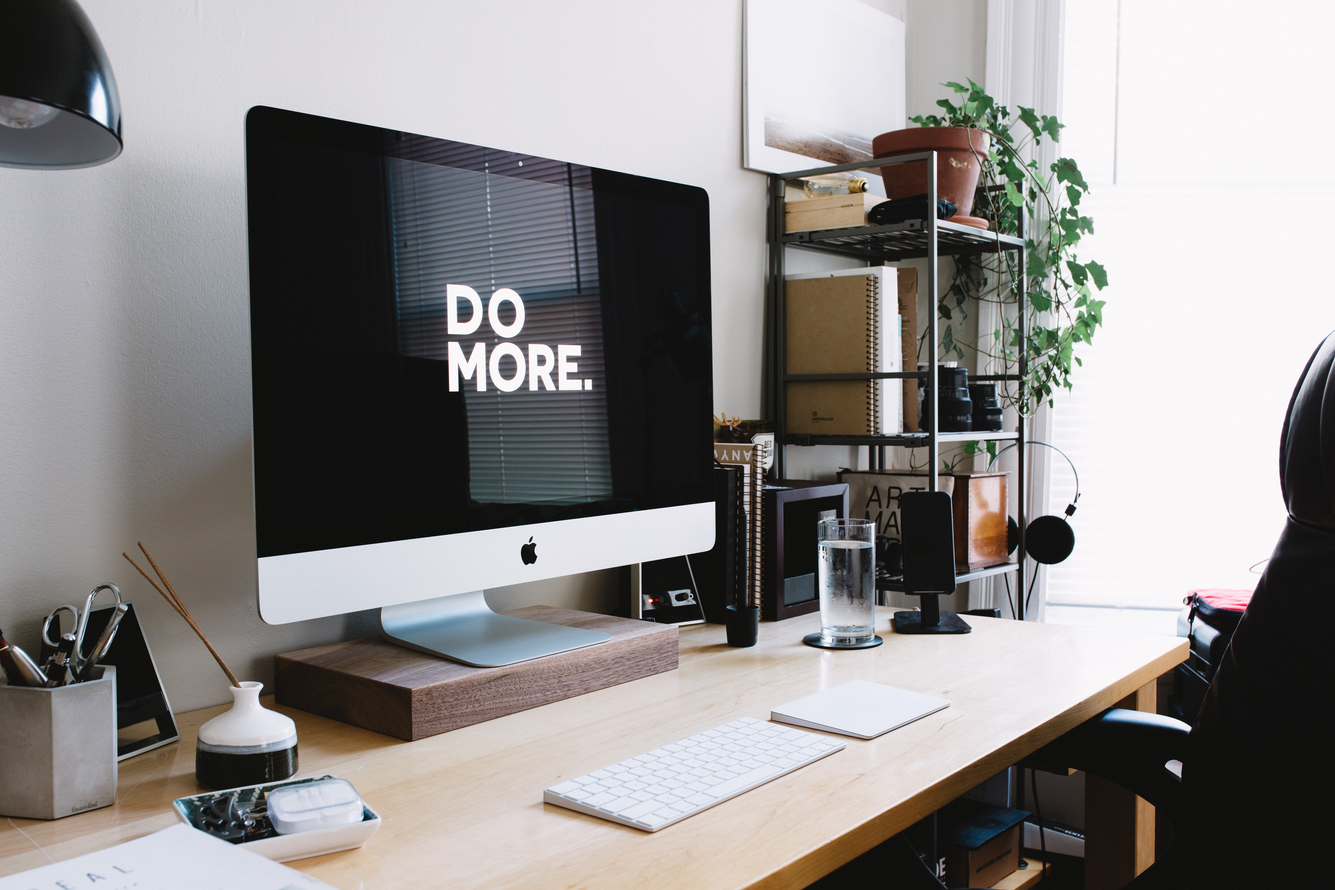
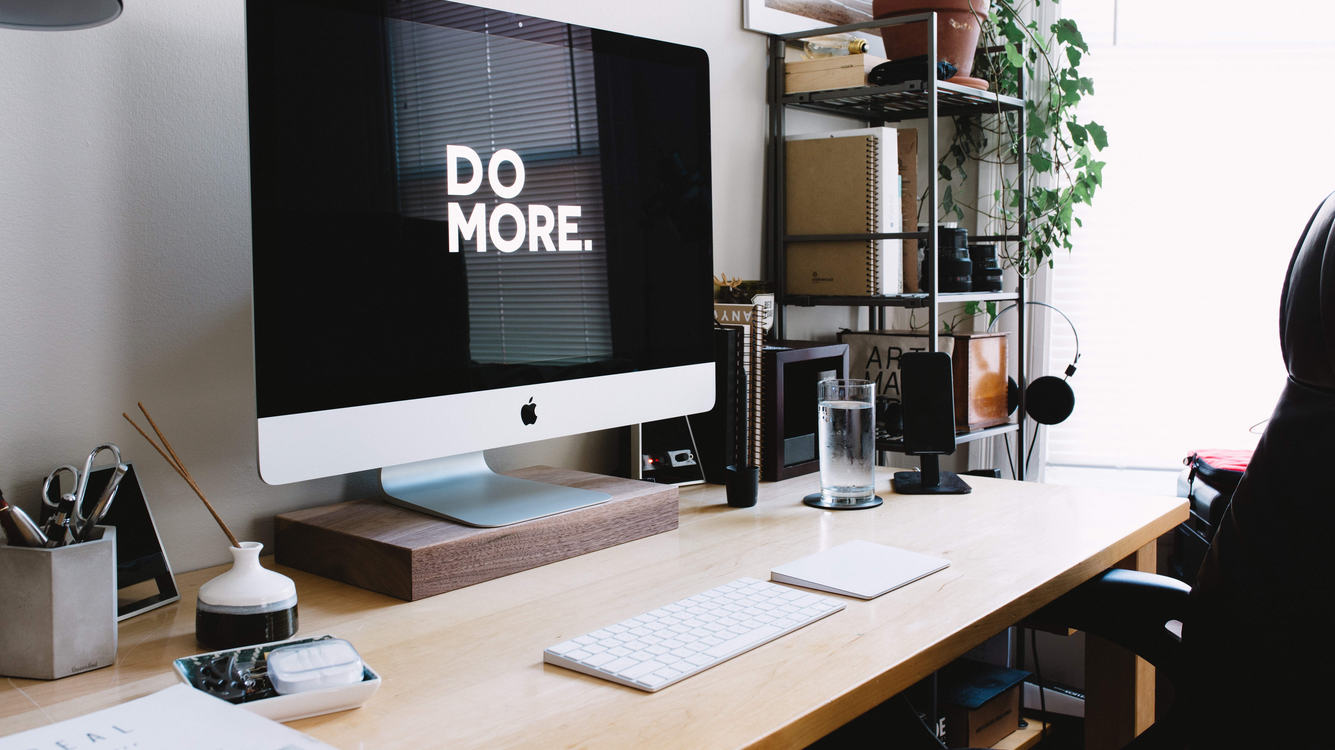
images resized and 1 project added (AI gamig bot). Small corrections in about me.

diff --git a/index.html b/index.html
@@ -41,7 +41,12 @@
             <div class="row">
                 <div class="col-lg-10 mx-auto">
                     <h2>Hello, I'm Yeshwanth Reddy</h2>
-                    <p class="lead mb-5"><span>Computer Science undergrad student at NIIT University, specialized in Data Science.Got my hands on a computer for the first time on 15th July 2016. Ever since my journey with programming has been started. Intially I started out with C (thanks to Dennis Ritchie for it's simplicity) but never restricted myself to it. Algorithms and Networking brought the coder out of me which became building blocks for my problem solving skills. &nbsp; &nbsp;<br></span></p>
+                    <p class="lead mb-5"><span>Computer Science undergrad student at NIIT University, specialized in Artificial Intelligence. 
+                        Got my hands on a computer for the first time on 15th July 2016. 
+                        Ever since my journey with programming has started. <br>
+                        Intially I started out with C (thanks to Dennis Ritchie for it's simplicity) but never restricted myself to it. 
+                        Algorithms and logics brought the coder out of me which became building blocks for my problem solving skills. <br>
+                        &nbsp; &nbsp;<br></span></p>
                     <a
                         class="btn btn-dark btn-xl js-scroll-trigger" role="button" href="#hobbies">What I Do</a>
                 </div>
@@ -82,15 +87,6 @@
             </div>
             <div class="row no-gutters">
                 <div class="col-lg-6">
-                    <a href="" class="portfolio-item">
-                        <div class="caption">
-                            <div class="caption-content">
-                                <h2>HyperSpectral image super resolution</h2>
-                                <p class="mb-0">Enhancing satellite image resolution spatially and spectrally</p>
-                            </div>
-                        </div><img class="img-fluid" src="assets/img/portfolio-1.jpg"></a>
-                </div>
-                <div class="col-lg-6">
                     <a href="https://play.google.com/store/apps/details?id=com.yesnik.colorhit" target="_blank" class="portfolio-item">
                         <div class="caption">
                             <div class="caption-content">
@@ -100,22 +96,31 @@
                         </div><img class="img-fluid" src="assets/img/portfolio-2.jpg"></a>
                 </div>
                 <div class="col-lg-6">
-                    <a href="https://docs.google.com/document/d/1qiMPISd3pzT6JFgNuUW4hhfDxoUwiHngPc-zD_mdA7Q/edit?usp=drivesdk" class="portfolio-item">
+                    <a href="https://drive.google.com/open?id=0B_ET69lydmnQYjY4TnhpcjJmZFk" target="_blank" class="portfolio-item">
+                        <div class="caption">
+                            <div class="caption-content">
+                                <h2>AI Gaming Bot</h2>
+                                <p class="mb-0">A bot capable of playing a maze game</p>
+                            </div>
+                        </div><img class="img-fluid" src="assets/img/portfolio-6.jpg"></a>
+                </div>
+                <div class="col-lg-6">
+                    <a href="https://drive.google.com/open?id=1osCryFD3_Rd_-OPaK-Ek09VzUbPeN1Z4" target="_blank" class="portfolio-item">
+                        <div class="caption">
+                            <div class="caption-content">
+                                <h2>HyperSpectral image super resolution</h2>
+                                <p class="mb-0">Enhancing satellite image resolution spatially and spectrally</p>
+                            </div>
+                        </div><img class="img-fluid" src="assets/img/portfolio-1.jpg"></a>
+                </div>
+                <div class="col-lg-6">
+                    <a href="https://drive.google.com/open?id=1DszkTd6UzD6VyYC-a3EwIIymFKtz_U6R" target="_blank" class="portfolio-item">
                         <div class="caption">
                             <div class="caption-content">
                                 <h2>Object Boundary detection</h2>
                                 <p class="mb-0">Detecting Individual Object Boundaries using Deepmask and Sharpmask</p>
                             </div>
                         </div><img class="img-fluid" src="assets/img/portfolio-3.jpg"></a>
-                </div>
-                <div class="col-lg-6">
-                    <a href="https://drive.google.com/open?id=0B_ET69lydmnQYjY4TnhpcjJmZFk" target="_blank" class="portfolio-item">
-                        <div class="caption">
-                            <div class="caption-content">
-                                <h2>Gesture Controlled Car</h2>
-                                <p class="mb-0">An adruino RC Car project&nbsp;controlled using glove gestures to add-up fun</p>
-                            </div>
-                        </div><img class="img-fluid" src="assets/img/portfolio-4.jpg"></a>
                 </div>
                 <div class="col-lg-6">
                     <a href="https://drive.google.com/drive/folders/166pKDavvCostJomp1o3gFGAc2E7cRgbN?usp=sharing" target="_blank" class="portfolio-item">
@@ -125,6 +130,15 @@
                                 <p class="mb-0">An intelligent Cross-platform assistant capable of learning things from user</p>
                             </div>
                         </div><img class="img-fluid" src="assets/img/portfolio-5.jpg"></a>
+                </div>  
+                <div class="col-lg-6">
+                    <a href="https://drive.google.com/open?id=0B_ET69lydmnQYjY4TnhpcjJmZFk" target="_blank" class="portfolio-item">
+                        <div class="caption">
+                            <div class="caption-content">
+                                <h2>Gesture Controlled Car</h2>
+                                <p class="mb-0">An adruino RC Car project&nbsp;controlled using glove gestures to add-up fun</p>
+                            </div>
+                        </div><img class="img-fluid" src="assets/img/portfolio-4.jpg"></a>
                 </div>
             </div>
         </div>
@@ -159,7 +173,7 @@
     </section>
     <section id="resume" class="callout" style="background:linear-gradient(90deg, rgba(255, 255, 255, 0.1) 0%, rgba(255, 255, 255, 0.1) 100%), url(&quot;assets/img/bg-callout.jpg&quot;);background-position:center center;background-repeat:no-repeat;background-size:cover;">
         <div class="container text-center">
-            <h2 class="mx-auto mb-5"><span>Download My&nbsp;</span><em>Resume</em><span>&nbsp;here!<br></span></h2><a class="btn btn-primary btn-xl" role="button" href="https://drive.google.com/a/st.niituniversity.in/file/d/1NjCPFQynvctLVf5Q-A07FD1JRiIKFPQ_/view?usp=drivesdk">Download Resume</a></div>
+            <h2 class="mx-auto mb-5"><span>Download My&nbsp;</span><em>Resume</em><span>&nbsp;here!<br></span></h2><a class="btn btn-primary btn-xl" role="button" href="https://drive.google.com/a/st.niituniversity.in/file/d/1NjCPFQynvctLVf5Q-A07FD1JRiIKFPQ_/view?usp=drivesdk" target="_blank">Download Resume</a></div>
     </section>
     <!-- <section class="content-section bg-primary text-white">
         <div class="container text-center">
@@ -168,11 +182,12 @@
     <footer id="contact" class="footer text-center">
         <div class="container">
             <ul class="list-inline mb-5">
-                <li class="list-inline-item">&nbsp;<a class="text-white social-link rounded-circle" href="https://github.com/Yeshwanth-Reddyy/"><i class="icon-social-github" target="_blank"></i></a></li>
+                <li class="list-inline-item">&nbsp;<a class="text-white social-link rounded-circle" href="https://github.com/Yeshwanth-Reddyy/" target="_blank"><i class="icon-social-github" ></i></a></li>
                 <li class="list-inline-item">&nbsp;<a class="text-white social-link rounded-circle" href="https://play.google.com/store/apps/developer?id=NnY.Studios" target="_blank"><i class="icon ion-android-playstore"></i></a></li>
-                <li class="list-inline-item">&nbsp;<a class="text-white social-link rounded-circle" href="https://www.linkedin.com/in/not-yeshwanth-reddy/"><i class="icon-social-linkedin" target="_blank"></i></a></li>
+                <li class="list-inline-item">&nbsp;<a class="text-white social-link rounded-circle" href="https://www.linkedin.com/in/not-yeshwanth-reddy/" target="_blank"><i class="icon-social-linkedin"></i></a></li>
             </ul>
-            <p class="text-muted mb-0 small">Copyright &nbsp;© Yeshwanth Reddy 2018</p>
+            <p class="text-muted mb-0 small">Copyright &nbsp;© Yeshwanth Reddy 2018</p><br>
+            <p class="text-muted mb-0 small">peddamalluyeshwanth1999@gmail.com     +91 9154466970</p>
         </div><a href="#page-top" class="js-scroll-trigger scroll-to-top rounded"><i class="fa fa-angle-up"></i></a></footer>
     <script src="assets/js/jquery.min.js"></script>
     <script src="assets/bootstrap/js/bootstrap.min.js"></script>
